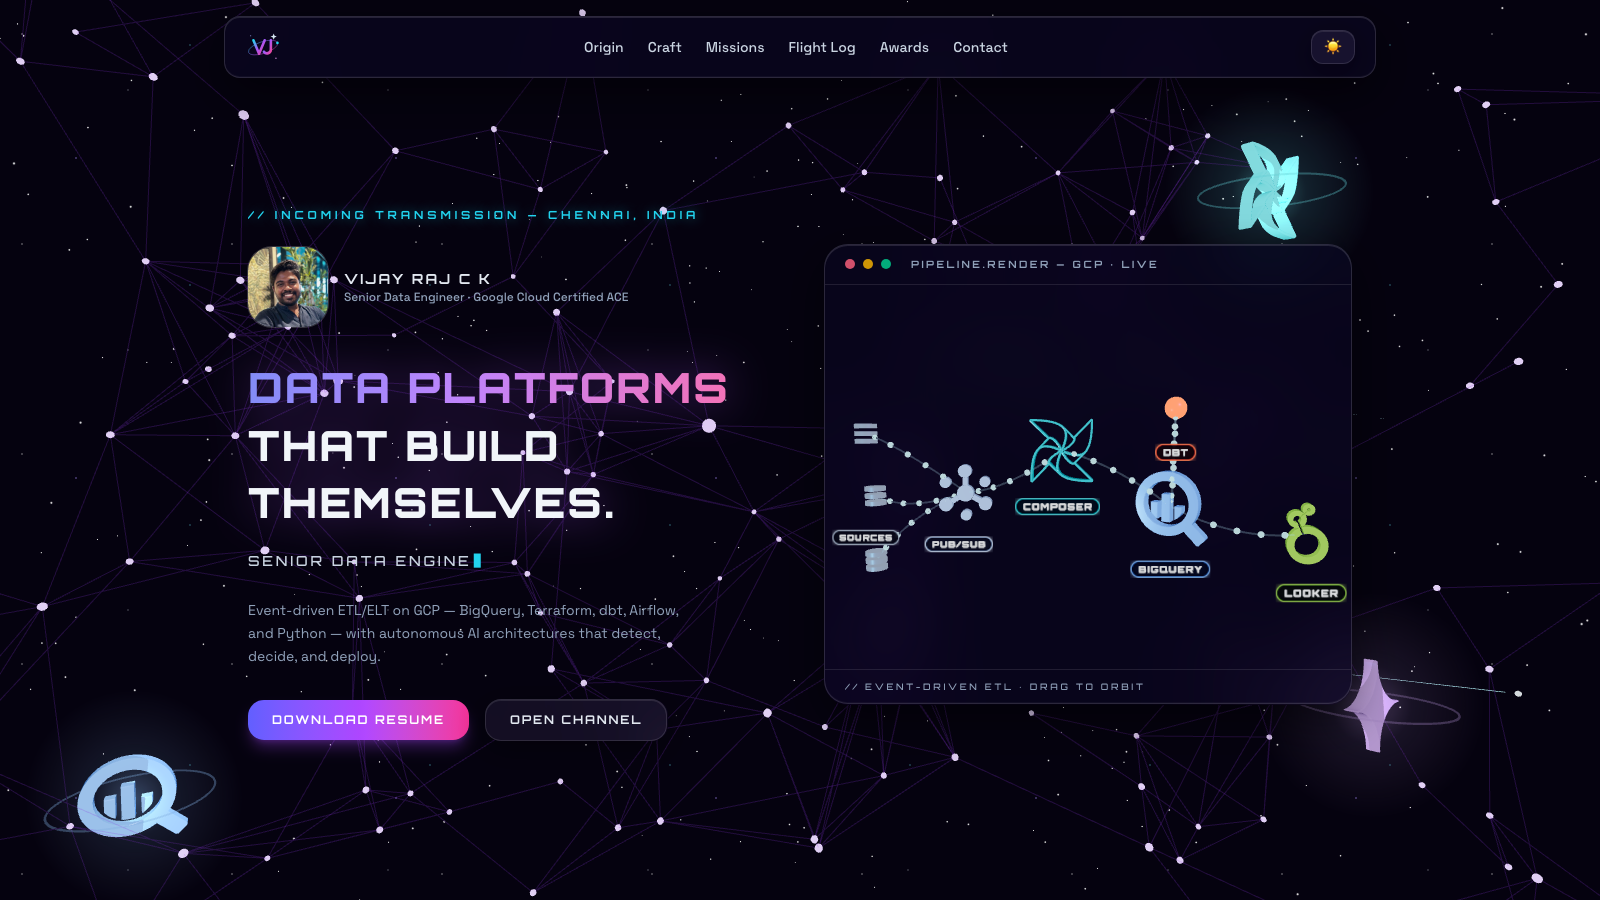
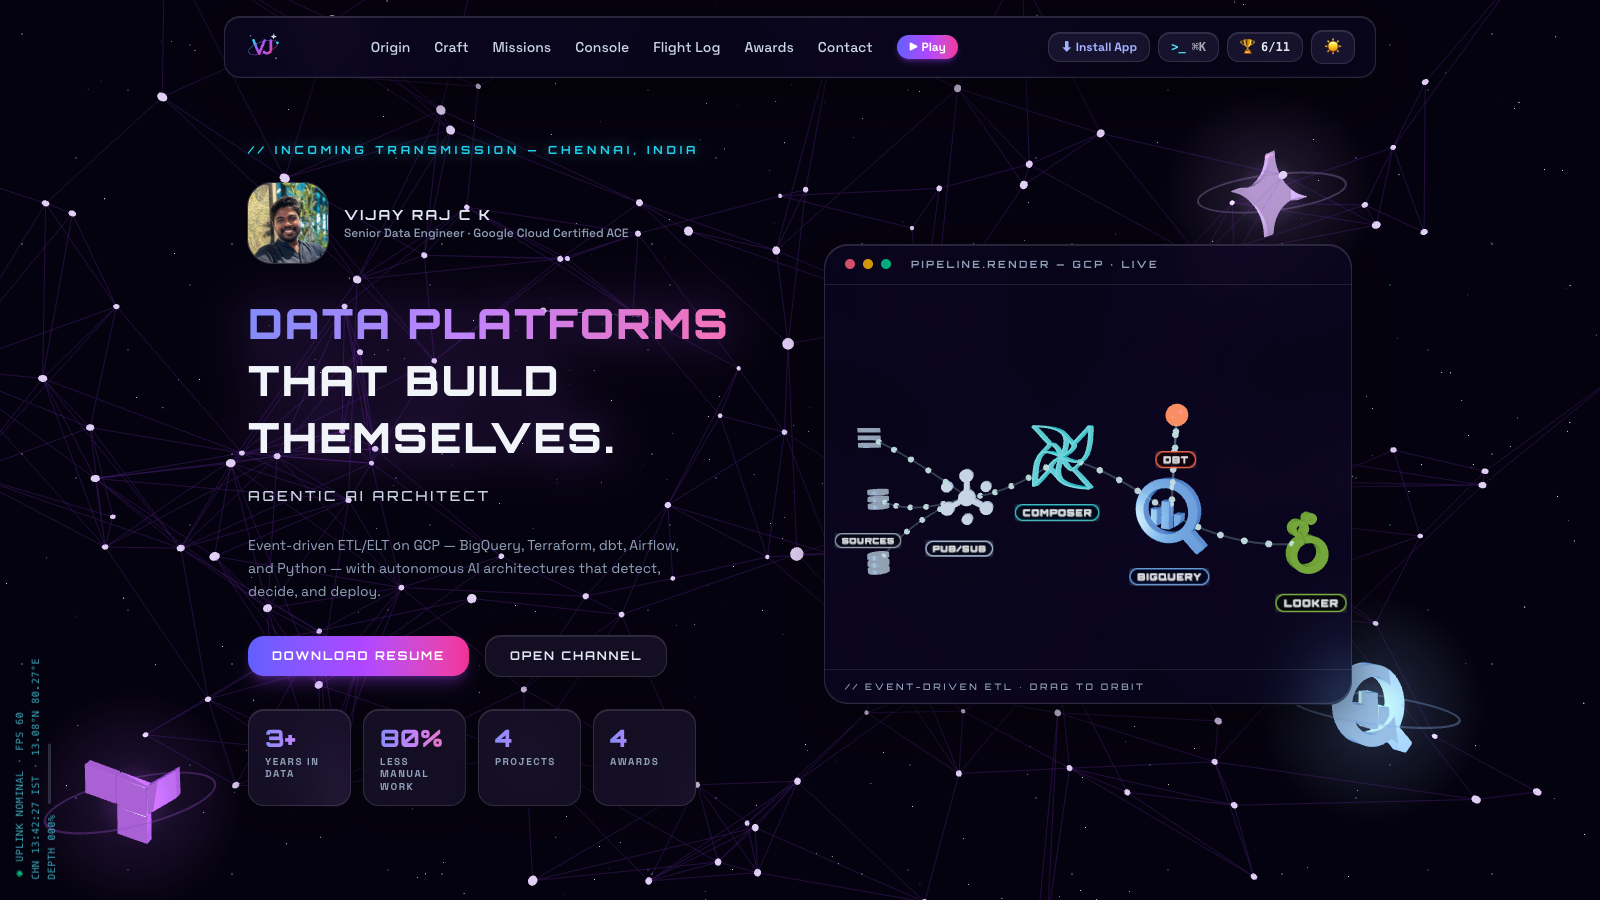
Update README and screenshots for the new features
Rewrite the README around the interactive systems (lineage, Query
Console, terminal, telemetry, contribution map, Schema Storm, badges)
and refresh all screenshots: updated hero, skills and projects, plus
new lineage, console, terminal, telemetry, skyline and game images.

diff --git a/README.md b/README.md
@@ -6,10 +6,11 @@
 
 **`// INCOMING TRANSMISSION — CHENNAI, INDIA`**
 
-*A space-themed 3D portfolio for a Senior Data Engineer.
-Data platforms that build themselves — and a website that behaves like one.*
+*A space-themed 3D portfolio for a Senior Data Engineer — built like a data platform.
+Query the résumé in SQL, trace skill lineage, watch live GitHub telemetry, and play a data game.*
 
 [![Live](https://img.shields.io/badge/LIVE-vijayrajck.vercel.app-22d3ee?style=for-the-badge&logo=vercel&logoColor=white&labelColor=0b0620)](https://vijayrajck.vercel.app)
+[![Play](https://img.shields.io/badge/PLAY-Schema_Storm-ec4899?style=for-the-badge&labelColor=0b0620)](https://vijayrajck.vercel.app/play)
 
 ![React](https://img.shields.io/badge/React_19-0b0620?style=flat-square&logo=react&logoColor=61DAFB)
 ![Three.js](https://img.shields.io/badge/Three.js-0b0620?style=flat-square&logo=threedotjs&logoColor=a78bfa)
@@ -18,7 +19,7 @@ Data platforms that build themselves — and a website that behaves like one.*
 ![Vite](https://img.shields.io/badge/Vite-0b0620?style=flat-square&logo=vite&logoColor=FFD43B)
 ![PWA](https://img.shields.io/badge/PWA-installable-0b0620?style=flat-square&logo=pwa&logoColor=8b5cf6)
 
-<img src="docs/hero.png" alt="Hero — live 3D GCP pipeline render in deep space" width="100%" />
+<img src="docs/hero.png" alt="Hero — live 3D GCP pipeline render, count-up stats and the HUD readout" width="100%" />
 
 </div>
 
@@ -26,11 +27,11 @@ Data platforms that build themselves — and a website that behaves like one.*
 
 ## `// CHAPTER 01 — WHAT IS THIS`
 
-A portfolio that tells a story in chapters — **Origin → Craft → Missions →
-Flight Log → Awards → Transmission** — floating as glass panels over a living
-deep-space scene: a particle pipeline network, starfield, comets, and real
+A portfolio that tells a story in chapters — **Origin → Craft → Missions → Query
+Console → Flight Log → Awards → Transmission** — floating as glass panels over a
+living deep-space scene: a particle pipeline network, starfield, comets, and real
 product logos (BigQuery, Vertex AI, Terraform, Google Cloud, Python, Composer)
-extruded into 3D. Three of the six logos are drawn at random on every visit.
+extruded into 3D. Plus a side mission at [`/play`](https://vijayrajck.vercel.app/play).
 
 The hero is a **live 3D render of a GCP data pipeline**, built from the actual
 product marks, with event particles flowing through glowing tubes:
@@ -44,52 +45,143 @@ SOURCES ══▶ PUB/SUB ══▶ COMPOSER ══▶ BIGQUERY ⇄ DBT
 
 Drag it to orbit. It snaps home when released.
 
+## `// CHAPTER 02 — INTERACTIVE SYSTEMS`
+
+Everything here is something a visitor *does*, and every one of them is a data
+engineering idea in disguise.
+
+### ⇢ Skill lineage
+
+<img src="docs/lineage.png" alt="Skill lineage graph — dbt traced to Pipewright, Sentinel-Forge and Nexus" width="100%" />
+
+The skills section flips between a filterable **grid** and a **lineage graph** in
+the style of dbt docs: every skill feeds the projects and roles it actually
+shipped in. Hover or tap a node to light its edges, with data flowing along them.
+The edges aren't hand-drawn — they're derived by matching each skill's aliases
+against project and role text ([`lineage.js`](src/data/lineage.js)), so the graph
+redraws itself when the content changes.
+
+<img src="docs/skills.png" alt="Skills grid with category filters and 'shipped in' counts" width="100%" />
+
+### ⌘ Query Console — SQL or plain English
+
+<img src="docs/console.png" alt="Query Console — a question in English translated to SQL and run" width="100%" />
+
+The résumé is a dataset. Visitors query `projects`, `skills`, `experience` and
+`awards` with a syntax-highlighted editor, schema explorer and preset queries —
+or switch to **Ask in English** and type *"Which projects use Terraform?"*.
+
+- **[`miniSql.js`](src/utils/miniSql.js)** — a dependency-free SQL engine:
+  `WHERE`, `LIKE`, `IN`, `IS NULL`, `AND/OR/NOT`, `GROUP BY` + `COUNT(*)`,
+  `ORDER BY`, `LIMIT`, `DISTINCT`, `SHOW TABLES`, `DESCRIBE`, with friendly errors
+  (`DROP TABLE` gets *"this warehouse is read-only"*).
+- **[`textToSql.js`](src/utils/textToSql.js)** — rule-based text-to-SQL. No model,
+  no network: it picks the table, filters, years, ordering and counts from the
+  question, writes the SQL into the editor so you can see the translation, and runs it.
+
+### `>_` The terminal — now with voice
+
+<img src="docs/terminal.png" alt="VJ-OS terminal — whoami and an English question answered with a result table" width="100%" />
+
+`⌘K` / `Ctrl K` / <code>`</code> opens **VJ-OS**: `help`, `whoami`, `projects`,
+`open <name>`, `goto <section>`, `sql <query>`, `ask <question>`, `resume`,
+`theme`, `play` — with tab completion, history, tap-to-run chips on phones, and a
+few easter eggs. In Chrome, Edge and Safari the **🎙 mic** takes spoken commands
+(*"go to projects"*, *"which projects use dbt"*) via the Web Speech API.
+
+### ◉ Live telemetry & contribution map
+
+<img src="docs/telemetry.png" alt="Live GitHub telemetry stream and contribution heatmap" width="100%" />
+
+Public GitHub activity replayed as a **Pub/Sub-style message stream** — each event
+"acked" as it arrives — with repo, star and language stats, and live
+`language · ★ stars · pushed 5d ago` badges on every project card. Below it, the
+**contribution map**: a year of commits as a heatmap (coloured by quartile, like
+GitHub's own), with streak stats — or as a rotating **3D skyline**, one instanced
+tower per day.
+
+<img src="docs/skyline.png" alt="Contribution map as a 3D skyline" width="100%" />
+
+### ▶ Schema Storm — the data game (`/play`)
+
+<img src="docs/game.png" alt="Schema Storm — rows on a conveyor, active contracts, dedupe ledger" width="100%" />
+
+Rows stream down a conveyor toward the warehouse. **Load** the clean ones,
+**quarantine** the rest to the dead-letter queue — before they hit the gate. Every
+level adds a data contract, and sometimes a column (schema drift): `id IS NOT
+NULL`, `email LIKE '%@%'`, `amount >= 0`, `country IN (…)`, duplicate ids against
+a dedupe ledger, and late events past a watermark. Streaks multiply the score;
+three mistakes halt the pipeline. Keyboard (← / →, A / D), touch buttons, and a
+vertical belt on phones.
+
+The rules live in a React-free module ([`schemaStorm.js`](src/game/schemaStorm.js))
+and are property-tested: across 21,000 generated rows, every broken row fails
+exactly the one contract it was built to break, and a bot reading only what's on
+screen plays it at 100% — so every call is fair.
+
+### 🏆 Mission badges & the 2060 layer
+
+- **11 badges** for exploring — open the terminal, run your own SQL, ask in
+  English, trace lineage, catch the telemetry, use your voice, visit every
+  chapter, find the secret command, score 500+ in Schema Storm… with unlock toasts
+  and a progress panel in the nav.
+- **Boot sequence** on first visit (skippable, once per session, never for
+  reduced-motion users), a **HUD** running up the left edge (fps, Chennai time,
+  uplink, scroll depth), a **targeting reticle** that locks onto controls, a
+  **scroll-progress bar** and active-section nav, pointer-tracked **spotlight and
+  3D tilt** on cards, and count-up hero stats.
+
 <div align="center">
-<img src="docs/projects.png" alt="Missions — draggable 3D project artifacts" width="100%" />
+<img src="docs/projects.png" alt="Missions — draggable 3D project artifacts with live repo badges" width="100%" />
 </div>
 
-## `// CHAPTER 02 — FLIGHT SYSTEMS`
+## `// CHAPTER 03 — FLIGHT SYSTEMS`
 
 | System | What it does |
 | --- | --- |
-| **Two WebGL contexts, total** | One background canvas + one shared overlay canvas rendering the pipeline and all project stages as scissored drei `<View>`s — immune to browser context-loss |
-| **FrostGL** | macOS-grade glassmorphism on every OS: where `backdrop-filter` can't be trusted (most Windows/Linux GPU configs), the background scene is gaussian-blurred in WebGL and composited back under each glass panel's rounded rect, tracked live from the DOM |
+| **Two WebGL contexts, total** | One background canvas + one shared overlay canvas rendering the pipeline, every project stage and the contribution skyline as scissored drei `<View>`s — immune to browser context-loss |
+| **FrostGL** | macOS-grade glassmorphism on every OS: where `backdrop-filter` can't be trusted (most Windows/Linux GPU configs), the background scene is gaussian-blurred in WebGL and composited back under each glass panel's rounded rect, tracked live from the DOM (fixed nav first, unrevealed panels skipped) |
 | **Capability ladder** | Real GPU → native blur or FrostGL · software GPU → CSS frost plate · no WebGL at all → CSS starfield + designed DOM fallbacks. Nobody sees an empty box |
-| **Interactive everything** | Hover the floating logos for holo-labels, click them for a shockwave burst + a synthesized space-sparkle (Web Audio, zero files) |
+| **Live data, politely** | GitHub REST + a public contributions API, one request each per session (cached in `sessionStorage`), with offline/rate-limit states instead of blank panels |
+| **Motion with manners** | Every animation — boot, reticle, tilt, flowing edges, belts, toasts — respects `prefers-reduced-motion`; tilt and reticle only on precise pointers |
+| **Route-split** | `/play` is lazy-loaded, so the game costs the portfolio nothing until someone opens it |
 | **PWA** | Installable, offline-capable, custom VJ monogram as app icon, self-hosted fonts |
 
-<div align="center">
-<img src="docs/skills.png" alt="Skills & Tools — brand-logo tiles" width="100%" />
-</div>
-
-## `// CHAPTER 03 — LAUNCH SEQUENCE`
+## `// CHAPTER 04 — LAUNCH SEQUENCE`
 
 ```bash
 npm install      # fuel
-npm run dev      # ignition — local dev server
+npm run dev      # ignition — local dev server (http://localhost:5173, game at /play)
 npm run lint     # pre-flight checks (oxlint)
 npm run build    # orbit — production build → dist/
 npm run preview  # test the production build locally
 ```
 
-**Debug switches:** `?frostgl=1` / `?frostgl=0` force the WebGL frost on/off.
-The console prints `[vj-portfolio] webgl=… frostgl=… backdrop=…` on every load.
+**Debug switches:** `?frostgl=1` / `?frostgl=0` force the WebGL frost on/off ·
+`?boot` replays the boot sequence. The console prints
+`[vj-portfolio] webgl=… frostgl=… backdrop=…` on every load.
 
-## `// CHAPTER 04 — MISSION CONTROL`
+## `// CHAPTER 05 — MISSION CONTROL`
 
 All content is data, not markup. Edit these and the site rebuilds itself:
 
 | File | Controls |
 | --- | --- |
-| [`src/data/portfolio.js`](src/data/portfolio.js) | Profile, story, experience, projects, awards |
-| [`src/data/skills.js`](src/data/skills.js) | Skill tiles + brand logos |
+| [`src/data/portfolio.js`](src/data/portfolio.js) | Profile, hero stats, story, experience, projects, awards |
+| [`src/data/skills.js`](src/data/skills.js) | Skill tiles, brand logos, and the aliases that drive lineage |
+| [`src/data/lineage.js`](src/data/lineage.js) | Skill → project/role edges (derived — no hand edits) |
+| [`src/data/tables.js`](src/data/tables.js) | Query Console tables (derived) + preset queries |
+| [`src/game/schemaStorm.js`](src/game/schemaStorm.js) | Schema Storm contracts, levels and pacing |
+| [`src/utils/achievements.js`](src/utils/achievements.js) | Mission badges |
 | [`src/data/logos3d.js`](src/data/logos3d.js) | The floating 3D logo pool |
 | [`src/data/socials.js`](src/data/socials.js) | Contact / social marks |
 
-## `// CHAPTER 05 — DEPLOYMENT`
+## `// CHAPTER 06 — DEPLOYMENT`
 
 Static output in `dist/` — deploys anywhere. On Vercel: preset **Vite**,
 build `npm run build`, output `dist`. Every push to `master` auto-deploys.
+[`vercel.json`](vercel.json) rewrites `/play` to the app so the game URL works on
+a direct visit or refresh; on other hosts, add the same SPA fallback.
 
 ---
 
